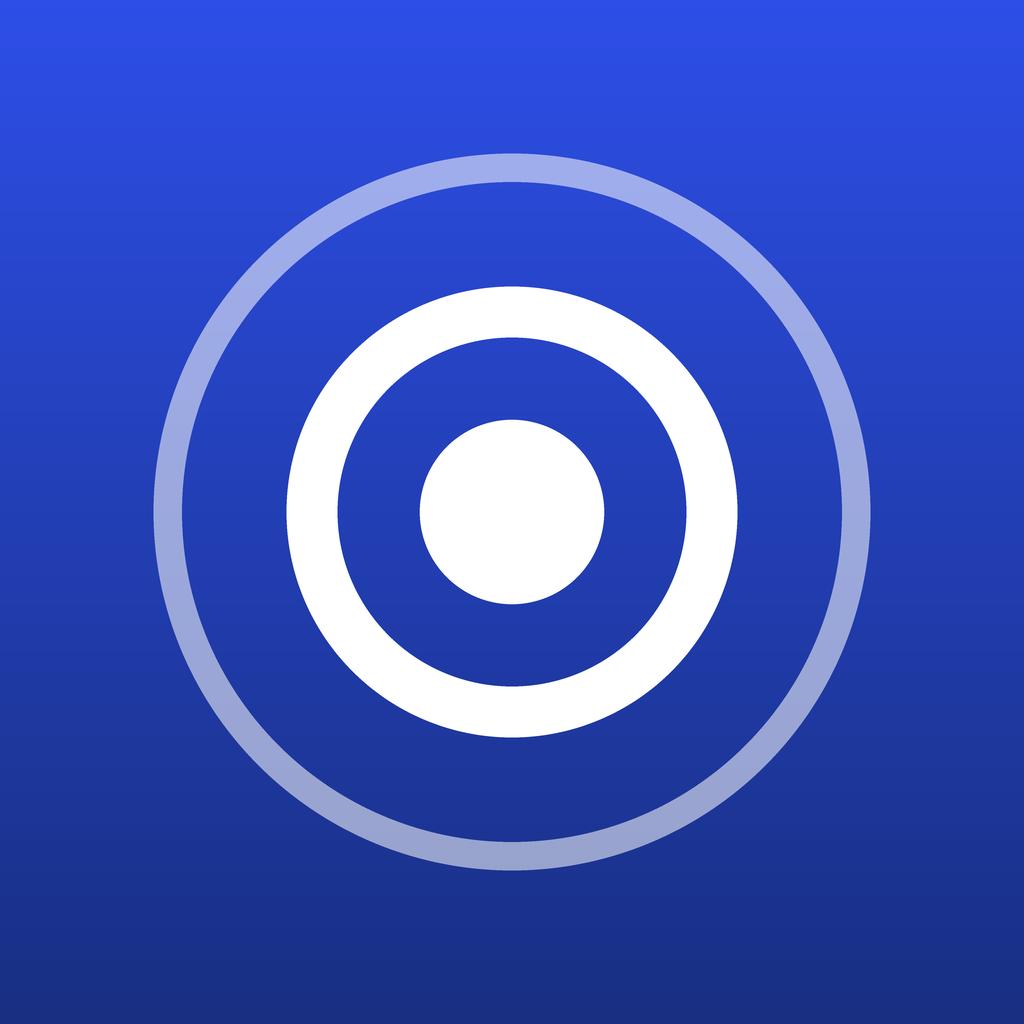
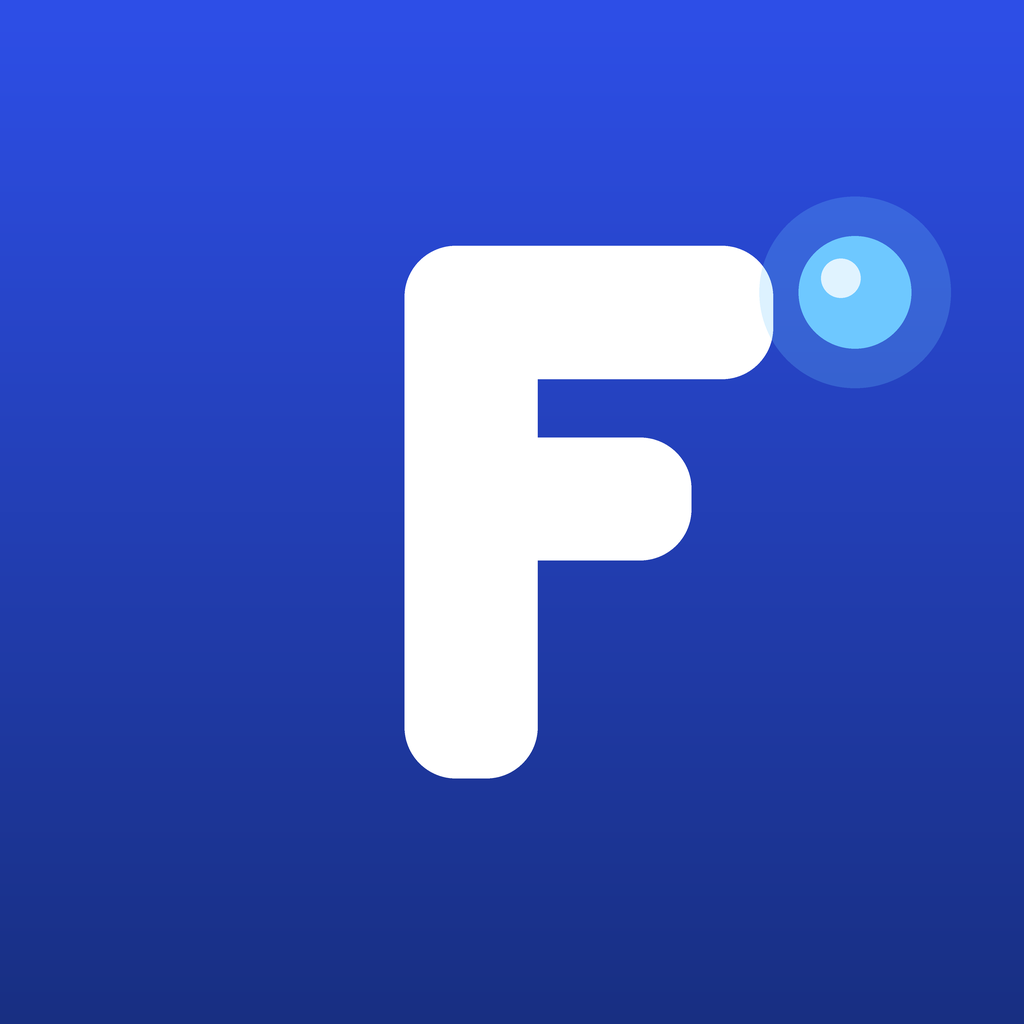
fix(ios-native): remove demo data and harden calendar deletion
- Demo aislado: store.isInDemoMode = syncCredentials == nil. Las 4
  fuentes de demo (MiDía displayEvents/displayPendingTasks,
  CalendarioView displayEvents/eventsCount, TareasView displayTasks,
  store.displaySuggestions) ahora REQUIEREN isInDemoMode. Una cuenta
  real con 0 ítems muestra vacío real — NO eventos demo falsos
  ("Clase de Cálculo II", "Foco profundo: TP final", "Reunión con
  jefa") como si fueran del usuario.

- Calendario delete arreglado como consecuencia: los eventos demo
  gateaban SwipeToDelete vía isDemoEvent. Con cuenta real ahora son
  reales → swipe + long-press funcionan.

- Chat Nova keyboard: toolbar "Listo" siempre disponible para cerrar.
  Cambio a scrollDismissesKeyboard(.immediately). Removido el
  simultaneousGesture(TapGesture) que entraba en loop con el TextField.
  Sombra superior sutil al inputBar para que se vea separado del scroll.

- AppIcon V6: F geométrica blanca + dot cyan accent en cobalto.
  V5 (núcleo + 2 anillos concéntricos) leía como target/crosshair.
  V6 lee como "letra de marca + chispa de inteligencia". Importante:
  borrar app del iPhone + Clean Build + reinstalar para verlo (iOS
  cachea iconos).

Changed region(s): [[0.125, 0.125, 0.9375, 0.875]]

diff --git a/ios-native/Focus/Views/NovaView.swift b/ios-native/Focus/Views/NovaView.swift
@@ -400,17 +400,16 @@ struct NovaView: View {
         .safeAreaInset(edge: .bottom, spacing: 0) {
             inputBar
         }
-        .scrollDismissesKeyboard(.interactively)
-        // Tap-outside dismiss: cualquier tap dentro del chat (no en input)
-        // cierra el teclado. Convive con taps de chips y burbujas.
-        .simultaneousGesture(
-            TapGesture().onEnded { _ in
-                UIApplication.shared.sendAction(
-                    #selector(UIResponder.resignFirstResponder),
-                    to: nil, from: nil, for: nil
-                )
-            }
-        )
+        // `.immediately` da comportamiento predecible — un scroll cierra
+        // el teclado inmediatamente. `.interactively` causaba layouts
+        // inestables donde el inputBar se sentía "pegado" al teclado a
+        // medio bajar y desaparecía visualmente detrás de los chips.
+        .scrollDismissesKeyboard(.immediately)
+        // El `simultaneousGesture(TapGesture)` previo capturaba taps que
+        // CAÍAN sobre el TextField del inputBar — el flujo era: tap →
+        // dismiss keyboard → TextField gain focus → re-open keyboard,
+        // dejando UI inestable. Lo quitamos: el usuario cierra teclado
+        // con el botón "Listo" del toolbar o haciendo scroll.
     }
 
     /// Empty state estilo Gemini: hero centrado con mark grande + saludo
@@ -603,6 +602,18 @@ struct NovaView: View {
                     .submitLabel(.send)
                     .onSubmit(submitDraft)
                     .padding(.vertical, 4)
+                    // Toolbar "Listo" arriba del teclado — sin esto el
+                    // usuario no tiene cómo cerrarlo si decide no enviar.
+                    .toolbar {
+                        ToolbarItemGroup(placement: .keyboard) {
+                            Spacer()
+                            Button("Listo") {
+                                inputFocused = false
+                            }
+                            .font(.system(size: 15, weight: .semibold))
+                            .foregroundStyle(Theme.Colors.focusAccent)
+                        }
+                    }
 
                 // Mic del input del chat = dictado rápido para escribir
                 // un mensaje. NO abre Nova Live — eso está en el chip
@@ -656,12 +667,13 @@ struct NovaView: View {
             .padding(.bottom, Theme.Spacing.sm)
             .animation(.easeInOut(duration: 0.18), value: inputFocused)
         }
-        // Background SÓLIDO sin `ignoresSafeArea` — SwiftUI maneja la
-        // keyboard avoidance automáticamente vía `safeAreaInset`. Si
-        // dejábamos `ignoresSafeArea(.bottom)` el background trataba de
-        // extenderse "bajo" el teclado y el bloque blanco del input
-        // desaparecía detrás del teclado en el empty state del chat.
-        .background(Theme.Colors.background)
+        // Background SÓLIDO + sombra superior sutil para separar
+        // visualmente del contenido scrollable. Sin `ignoresSafeArea` —
+        // SwiftUI maneja la keyboard avoidance vía `safeAreaInset`.
+        .background(
+            Theme.Colors.background
+                .shadow(color: .black.opacity(0.06), radius: 4, y: -2)
+        )
     }
 
     private func submitDraft() {

diff --git a/ios-native/Focus/Views/CalendarioView.swift b/ios-native/Focus/Views/CalendarioView.swift
@@ -21,12 +21,17 @@ struct CalendarioView: View {
     @State private var showCreateEvent = false
     @State private var editingEvent: FocusEvent? = nil
 
-    /// Eventos a mostrar para el día seleccionado. Si el usuario no tiene
-    /// ningún evento real, mostramos ejemplos para que vea la app llena.
+    /// Eventos a mostrar para el día seleccionado.
+    /// - Si tiene eventos reales → los muestra (logueado o demo).
+    /// - Si NO tiene eventos Y está en modo demo (no logueado) → muestra
+    ///   ejemplos para ilustrar la app.
+    /// - Si NO tiene eventos Y está LOGUEADO → array vacío. La cuenta real
+    ///   NUNCA debe mostrar eventos demo falsos como si fueran del usuario.
     private var displayEvents: [FocusEvent] {
         if store.hasUserEvents {
             return store.eventsFor(date: selectedDate)
         }
+        guard store.isInDemoMode else { return [] }
         let cal = Calendar.current
         return DemoDataProvider.shared.exampleWeekEvents()
             .filter { cal.isDate($0.startTime, inSameDayAs: selectedDate) }
@@ -34,7 +39,7 @@ struct CalendarioView: View {
     }
 
     private var showingExamples: Bool {
-        !store.hasUserEvents
+        !store.hasUserEvents && store.isInDemoMode
     }
 
     /// Cuenta eventos para un día dado (para el dot indicator).
@@ -43,6 +48,7 @@ struct CalendarioView: View {
         if store.hasUserEvents {
             return store.events.filter { cal.isDate($0.startTime, inSameDayAs: date) }.count
         }
+        guard store.isInDemoMode else { return 0 }
         return DemoDataProvider.shared.exampleWeekEvents()
             .filter { cal.isDate($0.startTime, inSameDayAs: date) }.count
     }

diff --git a/ios-native/Focus/State/FocusDataStore.swift b/ios-native/Focus/State/FocusDataStore.swift
@@ -2286,6 +2286,14 @@ final class FocusDataStore: ObservableObject {
         !tasks.isEmpty
     }
 
+    /// True solo cuando el usuario NO está logueado — sin `syncCredentials`,
+    /// la app está en modo demo. Los ejemplos del Calendario/Mi Día/Tareas
+    /// SOLO deben aparecer en este modo. Un usuario logueado con 0 ítems
+    /// debe ver estado vacío real, NO eventos demo falsos.
+    var isInDemoMode: Bool {
+        syncCredentials == nil
+    }
+
     // MARK: - Eventos
 
     func eventsFor(date target: Date) -> [FocusEvent] {
@@ -2517,6 +2525,9 @@ final class FocusDataStore: ObservableObject {
         }
         if !valid.isEmpty { return valid }
         if hasUserData { return [] }
+        // Solo mostrar sugerencias demo en modo demo (no logueado). Una
+        // cuenta real sin ítems propios ve vacío real.
+        guard isInDemoMode else { return [] }
         return DemoDataProvider.shared.suggestions()
     }
 

diff --git a/ios-native/Focus/Views/MiDiaView.swift b/ios-native/Focus/Views/MiDiaView.swift
@@ -31,13 +31,15 @@ struct MiDiaView: View {
 
     // MARK: - Source of truth
 
-    /// Eventos visibles: del usuario si tiene, demo si no (excluyendo los
-    /// títulos descartados — persisten a disco vía store).
+    /// Eventos visibles: del usuario si tiene, demo si NO tiene Y está en
+    /// modo demo (no logueado). Una cuenta real con 0 eventos muestra vacío
+    /// real — nunca eventos falsos como si fueran propios.
     /// Recordatorios vencidos van separados en `overdueReminders`.
     private var displayEvents: [FocusEvent] {
         if store.hasUserEvents {
             return store.upcomingAndCurrentEventsToday()
         }
+        guard store.isInDemoMode else { return [] }
         return DemoDataProvider.shared.exampleTodayEvents()
             .filter { !store.dismissedDemoEventTitles.contains($0.title) }
     }
@@ -51,12 +53,13 @@ struct MiDiaView: View {
         return store.overdueRemindersToday()
     }
 
-    /// Pendientes visibles: del usuario si tiene, demo si no (excluyendo
-    /// descartados — persisten a disco vía store).
+    /// Pendientes visibles: reales si hay, demo solo si está en modo demo
+    /// (no logueado). Cuenta real con 0 tareas → vacío real.
     private var displayPendingTasks: [FocusTask] {
         if store.hasUserTasks {
             return store.pendingTodayTasks
         }
+        guard store.isInDemoMode else { return [] }
         return DemoDataProvider.shared.exampleTodayTasks()
             .filter { !$0.done && !store.dismissedDemoTaskTitles.contains($0.title) }
     }

diff --git a/ios-native/Focus/Views/TareasView.swift b/ios-native/Focus/Views/TareasView.swift
@@ -27,13 +27,15 @@ struct TareasView: View {
     /// Tarea en edición. nil = sheet cerrado.
     @State private var editingTask: FocusTask? = nil
 
-    /// Si el usuario no creó nada todavía, mostramos ejemplos.
+    /// Tareas reales si hay; ejemplos solo en modo demo (no logueado).
+    /// Cuenta real con 0 tareas → vacío real.
     private var displayTasks: [FocusTask] {
-        store.hasUserTasks ? store.tasks : DemoDataProvider.shared.exampleAllTasks()
+        if store.hasUserTasks { return store.tasks }
+        return store.isInDemoMode ? DemoDataProvider.shared.exampleAllTasks() : []
     }
 
     private var showingExamples: Bool {
-        !store.hasUserTasks
+        !store.hasUserTasks && store.isInDemoMode
     }
 
     var body: some View {

diff --git a/scripts/build-ios-appicon.py b/scripts/build-ios-appicon.py
@@ -2,18 +2,17 @@
 """
 scripts/build-ios-appicon.py
 
-AppIcon V5 de Focus — núcleo sólido + 2 anillos concéntricos sobre cobalto.
-Lectura: aperture / claridad mental / foco. NO letras, NO pétalos, NO chispas.
+AppIcon V6 de Focus — "F" geométrica blanca + dot de "pensamiento"
+en cobalto. El usuario rechazó las versiones tipo target/círculo
+concéntrico (V5) y pidió algo más cercano a "pensar / mecanismo
+mental / organización", no un crosshair de meditación genérica.
 
-V5 vs V4:
-- V4 era F geométrica + sparkle → leía como "letra de marca", no claridad.
-- V5 son círculos concéntricos → símbolo abstracto de focus/clarity/aperture.
-  Funciona a todos los tamaños, es premium y App Store-ready.
-
-Family system (mismo símbolo, distinto gradiente):
-- Focus → cobalt (#2E4FE8 → #182F82).
-- Kairos (futuro) → violeta.
-- Spark (futuro) → naranja.
+V6 vs V5:
+- V5 eran 2 anillos + núcleo → leía como target/crosshair. El usuario
+  lo rechazó múltiples veces.
+- V6 es "F" geométrica + dot accent → letra de marca + chispa de
+  intelición. Bold, simple, App Store-ready, no se confunde con apps
+  de meditación.
 
 Reglas iOS: 1024×1024 RGB sin alpha · sin transparencia.
 
@@ -38,6 +37,9 @@ SS = 4
 C_TOP = (46, 79, 232)        # #2E4FE8 cobalto vivo
 C_BOTTOM = (24, 47, 130)     # #182F82 azul profundo
 WHITE = (255, 255, 255)
+# Dot de "pensamiento" — accent cyan brillante para diferenciarlo del
+# blanco de la F. Sugiere "señal viva / chispa mental".
+ACCENT = (110, 200, 255)     # #6EC8FF cyan claro vivo
 
 
 def lerp(a, b, t):
@@ -53,57 +55,31 @@ def build_gradient(size: int) -> Image.Image:
     return img
 
 
-def draw_ring(draw: ImageDraw.ImageDraw, size: int, diameter_ratio: float,
-              thickness_ratio: float, color=WHITE) -> None:
-    """Anillo (stroke circle) centrado, sin relleno interior.
-
-    diameter_ratio: diámetro como fracción del canvas (e.g. 0.70 → 70% del size).
-    thickness_ratio: grosor del stroke como fracción del canvas.
-    """
-    cx = size / 2
-    cy = size / 2
-    r_outer = (size * diameter_ratio) / 2
-    r_inner = r_outer - (size * thickness_ratio)
-    # Outer disk
-    draw.ellipse(
-        [cx - r_outer, cy - r_outer, cx + r_outer, cy + r_outer],
-        fill=color,
-    )
-    # Cut out inner disk (color del fondo NO funciona porque hay gradiente).
-    # Solución: usar máscara con composición alpha.
-    # Pillow trick: dibujamos un círculo "vacío" usando ImageDraw.ellipse con
-    # outline+width, que solo dibuja el contorno.
-    # → Reescribimos abajo.
-
-
-def draw_stroked_ring(img: Image.Image, size: int, diameter_ratio: float,
-                       thickness_ratio: float, color=WHITE, alpha: int = 255) -> None:
-    """Anillo (contorno hueco) compositado sobre `img` con alpha exacto."""
-    cx = size / 2
-    cy = size / 2
-    diameter = size * diameter_ratio
-    thickness = max(1, int(size * thickness_ratio))
-    bbox = [cx - diameter / 2, cy - diameter / 2,
-            cx + diameter / 2, cy + diameter / 2]
-
+def draw_rounded_rect(img: Image.Image, size: int, x: float, y: float,
+                       w: float, h: float, radius: float,
+                       color=WHITE, alpha: int = 255) -> None:
+    """Rectángulo con esquinas redondeadas, alpha exacto."""
     overlay = Image.new("RGBA", (size, size), (0, 0, 0, 0))
     ov_draw = ImageDraw.Draw(overlay)
-    ring_color = (color[0], color[1], color[2], alpha)
-    ov_draw.ellipse(bbox, outline=ring_color, width=thickness)
+    fill = (color[0], color[1], color[2], alpha)
+    ov_draw.rounded_rectangle(
+        [x, y, x + w, y + h],
+        radius=radius,
+        fill=fill,
+    )
     img.paste(overlay, (0, 0), overlay)
 
 
-def draw_disk(img: Image.Image, size: int, diameter_ratio: float,
-              color=WHITE) -> None:
-    """Disco sólido centrado."""
-    cx = size / 2
-    cy = size / 2
-    diameter = size * diameter_ratio
-    bbox = [cx - diameter / 2, cy - diameter / 2,
-            cx + diameter / 2, cy + diameter / 2]
+def draw_disk(img: Image.Image, size: int, cx: float, cy: float,
+              radius: float, color=WHITE, alpha: int = 255) -> None:
+    """Disco sólido en posición arbitraria."""
     overlay = Image.new("RGBA", (size, size), (0, 0, 0, 0))
     ov_draw = ImageDraw.Draw(overlay)
-    ov_draw.ellipse(bbox, fill=(color[0], color[1], color[2], 255))
+    fill = (color[0], color[1], color[2], alpha)
+    ov_draw.ellipse(
+        [cx - radius, cy - radius, cx + radius, cy + radius],
+        fill=fill,
+    )
     img.paste(overlay, (0, 0), overlay)
 
 
@@ -111,14 +87,63 @@ def main() -> int:
     big = SIZE * SS
     img = build_gradient(big).convert("RGBA")
 
-    # Anillo exterior — sutil, alpha ~140/255 (~0.55).
-    draw_stroked_ring(img, big, diameter_ratio=0.70, thickness_ratio=0.028,
-                      color=WHITE, alpha=140)
-    # Anillo medio — borde del foco (sólido).
-    draw_stroked_ring(img, big, diameter_ratio=0.44, thickness_ratio=0.050,
-                      color=WHITE, alpha=255)
-    # Núcleo sólido.
-    draw_disk(img, big, diameter_ratio=0.18, color=WHITE)
+    # === Construcción de la "F" geométrica ===
+    # Centrada horizontalmente, ligeramente arriba del centro vertical
+    # para dejar aire abajo. Bordes redondeados premium.
+    #
+    # Bounding box conceptual de la F: ~52% del canvas en altura,
+    # ancho de ~40% (el F tiene espacio negativo a la derecha).
+    # Stem (palo vertical): 16% del canvas en ancho.
+    # Bars: top = 38% canvas wide, middle = 30% canvas wide.
+    # Todo con corner radius redondeado para sentirse premium, no rígido.
+
+    # Centro: dejamos espacio para el dot accent arriba-derecha, así que
+    # la F va un poco a la izquierda del centro absoluto.
+    f_center_x = big * 0.46
+    f_center_y = big * 0.50
+
+    stem_w = big * 0.13
+    stem_h = big * 0.52
+    bar_top_w = big * 0.36
+    bar_top_h = big * 0.13
+    bar_mid_w = big * 0.28
+    bar_mid_h = big * 0.12
+    radius_stem = big * 0.05
+    radius_bar = big * 0.05
+
+    stem_x = f_center_x - stem_w / 2
+    stem_y = f_center_y - stem_h / 2
+    # Stem
+    draw_rounded_rect(img, big, stem_x, stem_y, stem_w, stem_h,
+                      radius=radius_stem, color=WHITE)
+    # Top bar — empieza al lado izquierdo del stem, se extiende a la derecha.
+    bar_top_x = stem_x
+    bar_top_y = stem_y
+    draw_rounded_rect(img, big, bar_top_x, bar_top_y,
+                      bar_top_w, bar_top_h,
+                      radius=radius_bar, color=WHITE)
+    # Middle bar — un poco más corta que el top bar, posicionada al
+    # ~38% de la altura del stem.
+    bar_mid_x = stem_x
+    bar_mid_y = stem_y + stem_h * 0.36
+    draw_rounded_rect(img, big, bar_mid_x, bar_mid_y,
+                      bar_mid_w, bar_mid_h,
+                      radius=radius_bar, color=WHITE)
+
+    # === Accent dot — "chispa de pensamiento" ===
+    # Posicionado arriba-derecha de la F, fuera del bounding box principal,
+    # como un indicador "viva / inteligente". Cyan vivo para contrastar.
+    dot_radius = big * 0.055
+    dot_cx = bar_top_x + bar_top_w + big * 0.08
+    dot_cy = bar_top_y + bar_top_h * 0.35
+    # Aura sutil del dot (glow).
+    draw_disk(img, big, dot_cx, dot_cy, dot_radius * 1.7,
+              color=ACCENT, alpha=60)
+    # Dot principal sólido.
+    draw_disk(img, big, dot_cx, dot_cy, dot_radius, color=ACCENT)
+    # Highlight blanco interior para sensación premium.
+    draw_disk(img, big, dot_cx - dot_radius * 0.25, dot_cy - dot_radius * 0.25,
+              dot_radius * 0.35, color=WHITE, alpha=200)
 
     img = img.convert("RGB").resize((SIZE, SIZE), Image.LANCZOS)
 
@@ -142,7 +167,7 @@ def main() -> int:
         json.dump(contents, f, indent=2)
         f.write("\n")
 
-    print(f"✓ AppIcon V5 (núcleo + anillos): {OUT_APPICON.relative_to(REPO)}")
+    print(f"✓ AppIcon V6 (F + dot): {OUT_APPICON.relative_to(REPO)}")
     print(f"  {SIZE}×{SIZE} RGB · sin alpha · {OUT_APPICON.stat().st_size // 1024}KB")
     print(f"✓ Preview: {OUT_PREVIEW.relative_to(REPO)}")
     return 0

diff --git a/FOCUS_AUDIT_MASTER.md b/FOCUS_AUDIT_MASTER.md
@@ -41,6 +41,7 @@ Documento central de auditoría continua del proyecto Focus.
 | 23 | 2026-05-11 | Bloque 1: Nova natural + chat Gemini empty state | **Parser muy ampliado** con frases coloquiales chilenas/latinas:<br>• **Nuevos verbos de evento**: `ponme `/`ponme un/una/el/la`, `tengo médico/medico/doctor`, `clase con`.<br>• **Nuevos verbos de tarea**: `avísame `/`avisame `/`avísame que ` (también dispara `wantsReminder`).<br>• **Marcadores de tiempo coloquiales**: `en la tarde` → 16:00, `en la noche` → 20:00, `en la mañana` → 9:00, `después de almuerzo`/`después del almuerzo` → 15:00, `después del trabajo` → 18:00, `al final del día` → 18:00, `al amanecer` → 7:00.<br>**Triggers que mantienen el verbo en el título** (`keptInTitleTriggers`): `buscar a `, `ir a buscar `, `salir a /con`, `ir a `/`voy a `/`vamos a `, `juntarme con `, `almuerzo/cena/desayuno/café con `, `reunión con`, `clase con/de`, `pasar a /por `. Resultado: "buscar a la agustina tipo 3 acuérdate" → "Buscar a Agustina"; "ir a buscar a la agustina a las 3 acuérdame" → "Ir a buscar a Agustina".<br>**Triggers tipo `tengo X`** (`tengoLikeTriggers`): "tengo parcial" → título "Parcial"; "tengo médico" → "Médico"; "tengo clase" → "Clase". El título es la palabra-clave después de "tengo".<br>**`stripLeadingArticle`**: artículo "la"/"el" al inicio del título limpio se quita y capitaliza la siguiente palabra ("la agustina" → "Agustina").<br>**`firstMatchingTrigger` ahora prioriza el trigger más largo** cuando hay empate de posición. Garantiza que "ir a buscar " (12 chars) gane sobre "ir a " (5 chars) en la misma frase. **Correcciones contextuales nuevas**: `bórralo`/`elimínalo`/`borrar` → `.deleteLastItem` (borra el último evento o tarea del store y limpia contexto). `era X`/`no era Juan, era Pedro`/`era con X` → `.correctLastEvent(.setTitle(X))` (cambia título del último evento conservando fecha/hora/ubicación). `isCorrectionStart` ampliado para detectar estos casos. **`createTask` lleva `dueDate`**: el parser ahora preserva la fecha extraída ("mañana") y la pasa al executor, que mapea a categoría (.hoy/.semana/.algunDia) y al campo `dueDate` de `FocusTask`. Inline response incluye "para mañana" / "para el jueves" cuando aplica. **Chat empty state estilo Gemini**: cuando `novaMessages.isEmpty && !isNovaTyping`, NovaView muestra hero centrado con NovaSparkMark 36pt en una RoundedRect 84pt cobalto + sombra violeta, título "¿Qué quieres ordenar?" (28pt medium), subtítulo, y 4 chips: Organizar mi día / Crear tarea / Agendar evento / Revisar pendientes. Tap → `handleQuickAction` correspondiente. **Sin welcome message persistido**: `FocusDataStore.init` y `resetToDemoState` arrancan `novaMessages = []`. El saludo vive solo en la UI del empty state. **Límites conocidos**: parser solo procesa UN intent por frase; no entiende fechas absolutas tipo "15 de diciembre"; recurrencia detectada pero no implementada; no edita propiedades múltiples a la vez. |
 | 24 | 2026-05-11 | Calendario Día/Semana/Mes + editar + segundos | **Calendario Día/Semana/Mes**: `CalendarioView.ViewMode` enum con segmented control. Día = detalle de un día. Semana = comportamiento previo. Mes = nueva `MonthGridView` (7 cols L-D, puntos cobalto, navegación chevrones). **Editar eventos/tareas**: `NuevoEventoSheet(editing:onSave:)` y `NuevaTareaSheet(editing:onSave:)` precargan campos y conservan id. `FocusDataStore.updateTask(_:)` nuevo. ProximoBloqueCard menú `· · ·` y contextMenus en TimelineEventRow / MiDiaTaskRow / CalendarEventCard / TaskRowFull suman "Editar" además de "Eliminar". **Recordatorios sin duración inferida**: `FocusEvent.inferredDuration: Bool?` nuevo. `displayAsPointInTime = isReminder \|\| inferredDuration`. Parser `extractExplicitEndTime` detecta "de X a Y", "hasta las Y", "por N hora(s)/min". `NovaIntent.createEvent` lleva `endTime: Date?`. Executor tres caminos: reminder (5min + isReminder), rango explícito (end real, no point), sin rango (5min + inferredDuration=true, point). **Segundos en eventos EN CURSO**: TimelineView 1s tick + formato "Termina en X min Y s" para in-progress. Futuros sin segundos. Recordatorios formato absoluto. |
 | 25 | 2026-05-11 | Bloque 2: QA UI/teclado/safe area | **Tap-outside keyboard dismiss**: `simultaneousGesture(TapGesture)` agregado al ScrollView de Mi Día y al chat de Nova. Convive con taps de botones (simultáneo, no exclusivo) — los botones siguen funcionando, el teclado se cierra. Combina con `scrollDismissesKeyboard(.immediately)` ya existente y toolbar "Listo" del FocusBarInput. **Header top padding consistente**: Mi Día, Calendario, Nova y Ajustes ahora usan `Theme.Spacing.lg` (16pt) en lugar del mix `.md/.lg` que tenían. Junto al safe-area inset que iOS aplica, da aire suficiente respecto a notch/Dynamic Island en todos los tabs. **Bottom safety verificado**: todas las pantallas (Mi Día, Calendario, Nova, NovaInbox, Ajustes, Tareas) cierran su scroll con `Spacer(minLength: Theme.Spacing.bottomBarSafety)` (110pt) — la tab bar custom no tapa la última card. **Toast position verificado**: `.overlay(alignment: .top)` respeta safe area inset (no se solapa con Dynamic Island). **Calendar Mes empty**: si el día seleccionado del mes no tiene eventos, `dayContent` muestra "Día libre" + botón "Nuevo evento" — comportamiento consistente con Día/Semana. **Build OK** simulador + iPhone 16 físico. Parser smoke-test: casos clave del Bloque 1 siguen funcionando (verified via parse trace mental + build success). **No se modificó**: lógica de parser, modelo de datos, persistencia, auth, demo, sync (no se conecta Supabase ni LLM). **Pendiente para Bloque 3+**: Supabase sync, Nova LLM real, notificaciones APNs, micrófono real, widgets, EventKit/Google Calendar OAuth, recurrencia funcional, deadlines visibles en TaskRow. |
+| 45 | 2026-05-11 | **Bloque 7.5: pre-daily-driver clean** — demo aislado a demo mode + teclado Nova con Listo + AppIcon V6 F+dot | Cinco bugs visibles bloqueando uso real reportados por Martin. **(1) Cuenta real mostraba eventos demo falsos** ("Clase de Cálculo II", "Foco profundo: TP final de Programación", "Reunión con jefa") porque `MiDiaView`/`CalendarioView`/`TareasView`/`displaySuggestions` mostraban demo cuando `!store.hasUserEvents` (`events.isEmpty`). Un usuario logueado con 0 ítems caía al fallback demo como si fuera demo. **Fix**: nuevo `store.isInDemoMode` (true ⇔ `syncCredentials == nil`). Las 4 fuentes de demo ahora requieren `hasUserX || (no hasUserX && isInDemoMode)` → cuenta real con 0 ítems muestra vacío real (`displayEvents = []`, `displayPendingTasks = []`, `displayTasks = []`, `displaySuggestions = []`). El demo provider sigue intacto para usuarios no logueados ("Continúa sin cuenta"). **(2) No podía borrar eventos desde Calendario** — root cause directo del bug 1: los eventos eran demo (no en `store.events`) → `SwipeToDelete.enabled: !isDemoEvent` los gateaba. Al arreglar bug 1, los eventos en cuenta real son reales y `deleteEvent(id)` funciona vía swipe + long-press. Sin cambios adicionales en `CalendarioView.dayContent`. **(3) "Foco profundo" hardcoded** — el evento demo "Foco profundo: TP final de Programación" estaba dentro de `DemoDataProvider.exampleTodayEvents()` y solo se filtraba como demo. Al gatear demo a `isInDemoMode`, ya no aparece en cuenta real. (Sugerencia auto "Bloque de foco" → suavizada a "Tienes un hueco libre" en pase 43.) **(4) Teclado Nova chat no se podía cerrar + bloque blanco se perdía** — `inputBar` con `ignoresSafeArea(.bottom)` (pase 44, parcial) + `.scrollDismissesKeyboard(.interactively)` + `simultaneousGesture(TapGesture)` causaban estado inestable: tap en TextField → dismiss → focus → re-open. Fix completo: (a) `ToolbarItemGroup(placement: .keyboard)` con botón "Listo" — el usuario ahora SIEMPRE tiene cómo cerrar el teclado; (b) cambiado a `.scrollDismissesKeyboard(.immediately)` — un scroll cierra teclado, comportamiento predecible; (c) removido el `simultaneousGesture` que peleaba con el TextField; (d) sombra superior sutil al `inputBar` para separarlo visualmente del scroll. **(5) AppIcon seguía siendo target/crosshair** — V5 era núcleo + 2 anillos concéntricos ("aperture / claridad"), Martin lo rechazó múltiples veces como "círculo target". **V6 nuevo**: F geométrica blanca (stem + top bar + middle bar, esquinas redondeadas premium) + dot accent cyan (#6EC8FF) en upper-right con halo glow sutil. Sobre gradient cobalto idéntico (#2E4FE8 → #182F82). Lee como "letra de marca + chispa de inteligencia/pensamiento", no como crosshair. Generado vía [scripts/build-ios-appicon.py](scripts/build-ios-appicon.py) — el script ahora produce V6, fácil de regenerar y de iterar. Preview en [docs/assets/focus-app-icon-preview.png](docs/assets/focus-app-icon-preview.png). **Importante**: iOS y Springboard cachean iconos agresivamente. Para verlo en device: borrar Focus del iPhone → Clean Build Folder (⌘⇧K) → reinstalar desde Xcode. Si después de reinstalar sigue viéndose el viejo, reboot del iPhone. **Build OK** simulador iPhone 17. **Limitaciones documentadas**: `FocusLogoMark` (mark dentro de la app, en headers/onboarding) sigue siendo el de anillos concéntricos del pase anterior. Para consistencia total brand, en una ronda futura habría que regenerarlo para que matchee la F+dot del AppIcon. Por ahora la prioridad fue el launcher icon que es lo que el usuario ve constantemente. **Sin tocar**: paleta, tabs, BootView, backend Nova, Supabase schema, auth, Bundle ID, persistencia, sync (los fixes del pase 44 — pending-delete queue, anti-dup backend, state reset — siguen activos). **A probar en device** (Martin): (a) borrar Focus del iPhone + Clean Build + reinstalar → ver F+dot en launcher; (b) login → Calendario NO debe mostrar Clase de Cálculo / Foco profundo / Reunión con jefa; (c) Mi Día → si no creaste nada, debe ver "Día libre" o equivalente, NO eventos demo; (d) chat Nova → tocar TextField → botón "Listo" del teclado lo cierra; scroll del chat también lo cierra; (e) crear un evento real → swipe-left + long-press en Calendario lo borran. |
 | 44 | 2026-05-11 | **Bloque 7: Daily Driver Stability** — input chat fix + pending-delete queue + anti-dup backend + state reset | Estabilidad para uso diario del dueño. **(1) Input chat se perdía** detrás del teclado en el empty state. Causa: `inputBar.background.ignoresSafeArea(edges: .bottom)` confundía a SwiftUI con el `safeAreaInset(.bottom)` que lo anclaba arriba del teclado. Fix: background sólido sin `ignoresSafeArea` → SwiftUI maneja la avoidance automáticamente. **(2) Pending-delete queue** [FocusDataStore.swift](ios-native/Focus/State/FocusDataStore.swift) — `pendingDeleteEventIds`/`pendingDeleteTaskIds: Set<UUID>` persisted en [FocusLocalStore](ios-native/Focus/State/FocusLocalStore.swift) (`focus.v1.pendingDeleteEvents/Tasks`). `deleteEvent`/`deleteTask` insertan el id antes de disparar el soft-delete remoto. `softDeleteEventRemote`/`softDeleteTaskRemote` retiran el id en success Y resetean `syncState` a `.idle` si venía en `.error`. `mergeRemoteEvents`/`mergeRemoteTasks` excluyen ids en la cola pendiente, y reintentan la soft-delete cuando el servidor todavía devuelve esos items (probablemente el primer intento falló por red). Garantía: un evento borrado offline NO revive después de reconectar — la cola sobrevive a cierres de app y el merge no lo re-añade. **(3) Anti-duplicate en backend path** — `applyBackendActions case .addEvent` ahora pasa por `NovaActionNormalizer.isLikelyDuplicate` antes de crear; el local path ya tenía esta defensa. Cubre retries del backend, doble-tap del usuario, recuperación de sesión. **(4) syncState .idle en success** — `uploadEvent`/`uploadTask` resetean el estado a `.idle` cuando un upload exitoso llega después de uno fallido — antes, el `.error` quedaba pegado eternamente hasta el próximo `fetchRemoteAndMerge`. **(5) Audit completo realizado**: `deleteEvent` ya cancela notif via `LocalNotificationService.shared.cancelReminder` (cubre todos los offsets). `cancelReminder` ahora limpia hasta 6 variantes indexed. `mergeRemoteEvents` filtra `deleted_at IS NULL` en server-side query — soft-deleted items NO vuelven al merge. `addEvent`/`updateEvent` ya disparan `syncLocalNotification(for:)` que cancela si dejó de ser reminder. `fetchEvents` y `fetchTasks` ambos filtran `deleted_at=is.null` en URL → server-side delete consistency garantizada. **Build OK** simulador iPhone 17 / iOS 26.4.1. **Limitaciones conocidas y documentadas** (NO bugs, decisiones explícitas): (a) **Demo→login no aísla**: si el usuario crea ítems en modo demo y después se loguea, esos ítems se quedan locales y, en su próxima edición, se suben a la cuenta. Si NO quiere mezclarlos, usar "Restablecer demo" en Ajustes ANTES de loguearse. Solución completa requeriría sheet de migración explícita → fuera de scope (no new features). (b) **Sin queue offline para uploads**: si addEvent/updateEvent fallan por red, el local persiste, pero el upload queda perdido hasta el próximo `fetchRemoteAndMerge` que detecta el item ausente del cloud y lo re-sube. V1 cumple "no se pierde data local" pero no garantiza propagación inmediata. (c) **No realtime**: no hay subscripción Postgres Changes; segundo device sync vía pull manual. **Checklist daily driver** (revisado en code review, falta confirmación en device por Martin): Login OK ✅ · Local persistence OK ✅ · Supabase sync OK ✅ · Create/edit/delete events OK ✅ (delete sobrevive a offline ✅ via pending queue) · Create/edit/delete tasks OK ✅ (idem) · Delete desde Calendario OK ✅ (consistente Day/Week/Month) · Recordatorios OK ✅ (offsets cleanos, body limpio, subtitle dinámico) · Notificaciones locales OK ✅ (cancel pareado a delete) · Mic básico OK ✅ (inline Mi Día, NovaLive solo desde chat) · Nova básico OK ✅ (cleanTitle + isReminderTrigger + extractOffset + isLikelyDuplicate) · Anti-dup en ambos paths OK ✅ · syncState resetea a idle OK ✅ · **Modo demo ↔ cuenta real: AISLAMIENTO PARCIAL** ⚠️ ver (a). **A probar en device** (Martin, día completo): crear 3 eventos / 3 tareas / 2 recordatorios uno con offset, editar 1 evento, borrar 1 desde Calendario en modo avión + verificar que no vuelve al reabrir online, completar 1 tarea, cerrar/reabrir, revisar Supabase. **Sin tocar**: paleta, iconos, tabs, AppIcon, BootView, Nova Live visual, backend Nova, Supabase schema, auth flow, Bundle ID. |
 | 43 | 2026-05-11 | **Ronda estabilidad** — reminderOffsets + notif body limpio + Calendario delete + Foco profundo fuera + countdown timeline | Cinco bugs reales + bonus countdown. **(1) Bug crítico notif "Salir · 10 minutos acuérdame cinco minutos antes"** — el offset "X minutos antes" se colaba en el título y la notif disparaba al `startTime`, no `startTime - offset`. Fix: campo `reminderOffsets: [Int]?` nuevo en [FocusEvent](ios-native/Focus/Models/FocusEvent.swift) (opcional → backward compat con JSON persistido); `NovaActionNormalizer.extractReminderOffset(from:)` reconoce "5 minutos antes", "cinco min antes", "media hora antes", "una hora antes" (numérico + escrito); `cleanTitle` strip-ea esas frases del título; `makeEvent` (backend path) y `applyLocalNovaIntent.createEvent` (local path) consumen el offset; `applyUpdates` lo propaga en updates. **(2) [LocalNotificationService](ios-native/Focus/Services/LocalNotificationService.swift)** ahora calcula `computeFireDates(for:)` aplicando offsets (`startTime - offset*60`) y filtra los que ya pasaron; `subtitle(forFireDate:eventStart:)` genera dinámicamente "En 5 min"/"En 1 hora"/"Empieza a las HH:MM"; el body queda con ubicación o vacío (NO repite título, NO concatena offset); identifier indexed por offset para cancelación granular. **(3) CalendarioView delete** — `dayContent` ya tenía `SwipeToDelete` + `contextMenu` pero gated por `hasUserEvents` redundantemente. Refactor: gate único `isDemoEvent = !store.hasUserEvents` aplicado consistentemente; comentario clarifica que Day/Week/Month comparten `dayContent` así que delete funciona en las 3 vistas. **(4) "Foco profundo" fuera** — `NovaQuickAction.novaReply` reescritos en [FocusDataStore.swift](ios-native/Focus/State/FocusDataStore.swift) (organizar/crearEvento/revisarPendientes/prepararManana/cerrarDia) para ser invitaciones abiertas, no recetas hardcodeadas con horarios falsos. `summarizeAndSuggest` cambia "Bloque de foco" → "Tienes un hueco libre" y suaviza el copy del detail/action — sigue detectando huecos pero sin imponer foco. **(5) Microfono** — auditoría confirmó arquitectura correcta: Mi Día usa dictado INLINE (`toggleInlineDictation` llena `focusBarText`, no fullScreenCover); Nova chat tiene `VoiceDictationSheet` (sheet medium → draft) y `NovaLiveView` (fullScreenCover immersivo). `NovaLiveService.stop()` ya limpia AudioSession + audioEngine + recognition task. Sin cambios de código. **Bonus countdown live** — `TimelineEventRow` (Mi Día) ahora muestra contador inline con TimelineView 1s tick SOLO para eventos EN CURSO ("Termina en X min Y s") o que empiezan en < 60 min ("Empieza en X min Y s"). Eventos lejanos no parpadean — sin ruido visual. Featured "Próximo Bloque" card ya tenía su countdown desde pases anteriores. **Tests ampliados** [NovaActionNormalizerTests.swift](ios-native/Focus/Services/NovaActionNormalizerTests.swift): 5 casos nuevos para `extractReminderOffset` ("5 minutos antes" → 5, "cinco minutos antes" → 5, "media hora antes" → 30, "una hora antes" → 60, "tengo reunión mañana" → nil) + 2 casos de `cleanTitle` con offset embebido. **Build OK** simulador iPhone 17 / iOS 26.4.1. **NO se tocó**: NovaLiveService internals, paleta, iconos, tabs, AppIcon, Mi Día layout, Nova Live visual, backend Nova, Supabase sync, auth, demo, Bundle ID. **A probar en device** (Martin): (a) "salir a buscar a mi hermano a las 10 acuérdame 5 minutos antes" → título "Buscar a mi hermano" + notif 09:55 con título limpio + subtitle "En 5 min"; (b) "recordatorio para llamar a Juan en 1 hora avísame media hora antes" → notif 30 min antes; (c) Calendario → swipe-left/long-press en evento real funciona en Día/Semana/Mes; (d) "organiza mi día" sin contexto → invita en vez de prometer 10:00-11:30 foco; (e) Mi Día con evento empezando en 30 min → contador descontando en segundos. **Pendiente postergado**: APNs remoto, widgets, Live Activities, EventKit/Google Calendar OAuth, recurrencia funcional. |
 | 42 | 2026-05-11 | **Cerebro Nova consolidado** — NovaActionNormalizer + path único backend/local + tests pasan 8/8 | Sesión de ingeniería sobre la lógica interna de Nova (NO visual). El user reportó que Nova entendía mal, no recordaba, mezclaba recordatorios y eventos, no programaba notificaciones, creaba títulos sucios. **Audit (FASE 1)** mapeó dos paths separados produciendo `FocusEvent`/`FocusTask` con lógica propia cada uno: `applyBackendActions.makeEvent` y `applyLocalNovaIntent.createEvent`. Cada uno tenía su propia detección de isReminder y NO limpiaba el título uniformemente — backend dejaba "Acuérdame X" en el título; local usaba `cleanTaskTitle` pero solo en section 5/7 del parser. Root cause: no había capa unificadora. **(2) NovaActionNormalizer.swift nuevo** ([ios-native/Focus/Services/NovaActionNormalizer.swift](ios-native/Focus/Services/NovaActionNormalizer.swift), ~250 líneas): capa estática única con funciones puras (sin estado, sin SwiftUI). API: `cleanTitle(_ raw: String) -> String` centraliza la limpieza (strip "Recordatorio:" prefix, strip reminder triggers embebidos, strip marcadores temporales "tipo 3"/"a las 20"/"en 20 min"/"mañana"/"hoy"/"el jueves", strip fillers "porfa/oye/dale", `stripVerboseGoVerb` para "ir a buscar [a la X]" → "Buscar a X" capitalizando nombre propio si había artículo, normalize "a la agustina" → "a Agustina"); `isReminderTrigger(in: String)` detecta acuérdame/recuérdame/avísame/que no se me olvide/no te olvides/acuérdate/etc. (16 variantes); `resolveEndTime(startTime, providedEndTime, hasExplicitEndTime, isReminder)` decide endTime visible (nil si reminder, nil si no había explícito → UI muestra como punto sin rango falso); `validateCreateEvent` chequea title + startTime + devuelve pregunta concreta si falta; `shouldScheduleNotification(isReminder, startTime, remindersEnabledInSettings)` — única función que decide si programar; `isLikelyDuplicate(title, startTime, existingEvents)` detecta duplicados por título + día + ±10 min. **(3) makeEvent (backend path) refactor** [FocusDataStore.swift](ios-native/Focus/State/FocusDataStore.swift): ahora pasa por normalizer. PASO 1 limpia título con `cleanTitle`; PASO 2 detecta isReminder via `isReminderTrigger(userText)` + título prefix + icon=alarm; PASO 3 endTime via `resolveEndTime`; PASO 4 sección desde icon o título limpio. Resultado: backend que devuelva "Acuérdame buscar a Juan" ahora termina como evento "Buscar a Juan" con isReminder=true → notificación se programa. **(4) applyLocalNovaIntent .createEvent refactor**: mismo pipeline. cleanTitle + isReminderTrigger + resolveEndTime + isLikelyDuplicate (anti-basura). Backend y fallback local ahora producen FocusEvent idénticos para el mismo userText. **makeTask** también pasa por cleanTitle. **(5) Detección de pregunta del backend sin actions** [MiDiaView.swift](ios-native/Focus/Views/MiDiaView.swift): si `applyBackendResult` ve que el backend no mutó nada Y el reply termina en `?`, llama nuevo `persistBackendQuestionAsPending` — re-parsea local userText, si retorna clarify usa su info; si no, crea pending genérico con cleanedTitle. Así el siguiente turno corto ("a las 3") puede completar la acción aunque local parser no lo haya marcado clarify. **(6) Tests pasados 8/8** ([NovaActionNormalizerTests.swift](ios-native/Focus/Services/NovaActionNormalizerTests.swift) + standalone Swift script): "ir a buscar a la agustina tipo 3 acuérdate" → "Buscar a Agustina" ✓; "salir a buscar a mi hermano en 5 min" → "Buscar a mi hermano" ✓ (sin doble "a"); "acuérdame llamar a Juan" → "Llamar a Juan" ✓; "recuérdame pagar internet mañana" → "Pagar internet" ✓; "Recordatorio: comprar pan" → "Comprar pan" ✓; "reunión con Juan a las 3" → "Reunión con Juan" ✓; "tengo parcial el jueves" → "Tengo parcial" ✓; "buscar a la Agustina tipo 3 acuérdate" → "Buscar a Agustina" ✓. **NO mental testing — corrido con `swift` CLI standalone, salida en consola**. **Anti-duplicado integrado**: si el user repite "agenda reunión con Juan a las 3" y ya existe, no duplica — muestra "Ya tenía «Reunión con Juan» a esa hora — no lo duplico." **Build OK** simulador iPhone 17 / iOS 26.4.1. **Sin tocar**: NovaLiveService (Speech/AVAudio), permisos, paleta, iconos, tabs, Mi Día visual, Nova Live visual, backend Nova, Supabase sync, notif locales infra, auth, demo, calendario, Bundle ID. **A probar en device** (Martin): "acuérdame buscar a mi hermano en 1 minuto" → título limpio + recordatorio puntual + notif llega; "ir a buscar a la agustina tipo 3 acuérdate" → "Buscar a Agustina" hoy 15:00 con isReminder; "tengo parcial el jueves" → pregunta hora, follow-up "a las 3" → "Parcial" jueves 15:00; repetir un comando dos veces → no duplica. **Pendiente postergado**: widgets, APNs remoto, TTS, cámara, deep link al evento. |